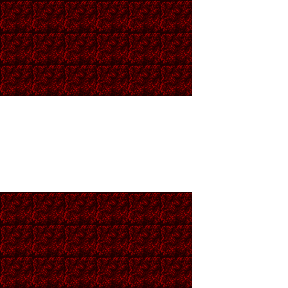
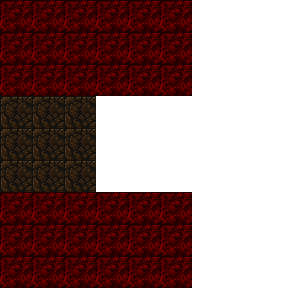
Add conveyer belts and light bulbs

Changed region(s): [[0.0, 0.3125, 0.3438, 0.6875]]

diff --git a/core/src/com/mygdx/game/GameObjects/Hazards/ConveyerBelt/ConveyerBelt.kt b/core/src/com/mygdx/game/GameObjects/Hazards/ConveyerBelt/ConveyerBelt.kt
@@ -1,0 +1,92 @@
+package com.mygdx.game.GameObjects.Hazards.ConveyerBelt
+
+import com.badlogic.gdx.graphics.g2d.PolygonSpriteBatch
+import com.badlogic.gdx.graphics.g2d.SpriteBatch
+import com.badlogic.gdx.math.Vector2
+import com.mygdx.game.*
+import com.mygdx.game.Collisions.DefaultAreaEntranceCollition
+import com.mygdx.game.Enums.Direction
+import com.mygdx.game.Enums.Layer
+import com.mygdx.game.Enums.getDirectionFromString
+import com.mygdx.game.GameObjects.GameObject.GameObject
+import com.mygdx.game.GameObjects.MoveableEntities.Characters.Player
+import com.mygdx.game.Utils.Triggerable
+import kotlinx.serialization.Serializable
+import kotlinx.serialization.json.Json
+import kotlinx.serialization.json.decodeFromJsonElement
+
+class ConveyerBelt(gameObjectData: GameObjectData)
+    : GameObject(gameObjectData, Vector2(gameObjectData.width.toFloat(),gameObjectData.height.toFloat())),Triggerable {
+    override val texture = DefaultTextureHandler.getTexture("sensor.png")
+    override val layer = Layer.ONGROUND
+    val directionString = Json.decodeFromJsonElement<ConveyerBeltCustomFields>(gameObjectData.customFields).Direction
+    var direction = getDirectionFromString(directionString)
+    private val isVertical = (direction == Direction.DOWN || direction == Direction.UP)
+    private val brickLength = 20f
+    private val brickCount = if(isVertical) size.y / brickLength else size.x / brickLength
+    val offsetStartBrick = when(direction){
+        Direction.DOWN -> Vector2(0f,0f)
+        Direction.UP -> Vector2(0f,brickLength)
+        Direction.RIGHT -> Vector2(0f,0f)
+        Direction.LEFT -> Vector2(brickLength,0f)
+    }
+    val speed =  1f
+    val start = initPosition + if(isVertical) Vector2(0f,size.y) else Vector2(0f,0f)
+    val end = if(isVertical) initPosition + offsetStartBrick else bottomright - Vector2(brickLength,0f)
+    val brickImageFileName = if(isVertical) "ConveyerBrick.png" else "ConveyerBrickDown.png"
+    val startBrick = ConveyerBrick(if(isVertical) start + offsetStartBrick else start - offsetStartBrick, if(isVertical) Vector2(size.x,brickLength) else Vector2(brickLength,size.y),speed,direction, DefaultTextureHandler.getTexture(brickImageFileName))
+    val endBrick = ConveyerBrick(end, if(isVertical) Vector2(size.x,brickLength) else Vector2(brickLength,size.y),speed,direction, DefaultTextureHandler.getTexture(brickImageFileName))
+    val bricks = constructBricks()
+    override val collision = ConveyerBeltCollition(direction)
+    override fun render(batch: SpriteBatch) {
+        endBrick.draw(batch)
+        startBrick.draw(batch)
+        bricks.forEach { it.draw(batch) }
+    }
+
+    override fun frameTask() {
+        bricks.forEach { it.move() }
+        super.frameTask()
+    }
+
+    fun constructBricks(): List<ConveyerBrick>{
+        val list = mutableListOf<ConveyerBrick>()
+        for(i in 0 until brickCount.toInt()){
+            val increment = if(isVertical) Vector2(0f, i * brickLength) else Vector2(-(i * brickLength), 0f)
+            val brick = ConveyerBrick(start - increment, if(isVertical) Vector2(size.x,brickLength) else Vector2(brickLength,size.y),speed,direction, DefaultTextureHandler.getTexture(brickImageFileName))
+            list.add(brick)
+        }
+        return list.toList()
+    }
+
+    override fun onTrigger() {
+        if(direction == Direction.LEFT){
+            direction = Direction.RIGHT
+        }
+        else if(direction == Direction.RIGHT){
+            direction = Direction.LEFT
+        }
+        startBrick.direction = direction
+        endBrick.direction = direction
+        bricks.forEach { it.direction = direction }
+    }
+}
+
+class ConveyerBeltCollition(val direction: Direction) : DefaultAreaEntranceCollition() {
+
+
+    override var canMoveAfterCollision = true
+
+    override fun movedInsideAction(objectEntered: GameObject) {
+
+    }
+
+    override fun movedOutsideAction(objectLeaved: GameObject) {
+
+    }
+}
+
+@Serializable
+data class ConveyerBeltCustomFields(val Direction: String){
+
+}

diff --git a/core/src/com/mygdx/game/GameObjects/Hazards/LightBulb.kt b/core/src/com/mygdx/game/GameObjects/Hazards/LightBulb.kt
@@ -1,0 +1,50 @@
+package com.mygdx.game.GameObjects.Hazards
+
+import com.badlogic.gdx.math.Vector2
+import com.mygdx.game.Collisions.CanMoveCollision
+import com.mygdx.game.Collition.MoveCollision
+import com.mygdx.game.Collition.OnlyPlayerCollitionMask
+import com.mygdx.game.Collition.OnlyProjectileCollisionMask
+import com.mygdx.game.DefaultTextureHandler
+import com.mygdx.game.EntityRefData
+import com.mygdx.game.Enums.Layer
+import com.mygdx.game.GameObjectData
+import com.mygdx.game.GameObjects.GameObject.GameObject
+import com.mygdx.game.GameObjects.MoveableObjects.Projectile.Fireball
+import com.mygdx.game.GameObjects.Triggers.AbilityCustomFields
+import com.mygdx.game.Managers.AreaManager
+import com.mygdx.game.Utils.Triggerable
+import kotlinx.serialization.Serializable
+import kotlinx.serialization.json.Json
+import kotlinx.serialization.json.decodeFromJsonElement
+
+class LightBulb(gameObjectData: GameObjectData)
+    : GameObject(gameObjectData, Vector2(gameObjectData.width.toFloat(),gameObjectData.height.toFloat())){
+    override val texture = DefaultTextureHandler.getTexture("lightbulb.png")
+    override val layer = Layer.PERSON
+    override val collitionMask = OnlyProjectileCollisionMask
+    override val collision = LightBulbCollision(this)
+    val entityRefData = Json.decodeFromJsonElement<LightbulbCustomFields>(gameObjectData.customFields).Entity_ref
+    lateinit var gameObjectToTrigger: Triggerable
+
+    override fun initObject() {
+        gameObjectToTrigger = AreaManager.getObjectWithIid(entityRefData.entityIid) as Triggerable
+    }
+}
+
+@Serializable
+data class LightbulbCustomFields(val Entity_ref: EntityRefData){
+
+}
+
+class LightBulbCollision(val lightBulb: LightBulb): MoveCollision(){
+    override var canMoveAfterCollision = true
+
+    override fun collisionHappened(collidedObject: GameObject) {
+        if(collidedObject is Fireball){
+            collidedObject.remove()
+            lightBulb.gameObjectToTrigger.onTrigger()
+        }
+    }
+
+}

diff --git a/core/src/com/mygdx/game/GameObjects/Hazards/ConveyerBelt/ConveyerBrick.kt b/core/src/com/mygdx/game/GameObjects/Hazards/ConveyerBelt/ConveyerBrick.kt
@@ -1,0 +1,46 @@
+package com.mygdx.game.GameObjects.Hazards.ConveyerBelt
+
+import com.badlogic.gdx.graphics.Texture
+import com.badlogic.gdx.graphics.g2d.Sprite
+import com.badlogic.gdx.math.Vector2
+import com.mygdx.game.Enums.Direction
+import com.mygdx.game.Enums.getDirectionUnitVector
+import com.mygdx.game.times
+
+class ConveyerBrick(val pos: Vector2, val size: Vector2, val speed: Float, var direction: Direction, texture: Texture): Sprite(texture) {
+    init {
+        val startPos = when(direction){
+            Direction.DOWN -> Vector2(pos.x,pos.y)
+            Direction.UP -> Vector2(pos.x, pos.y - size.y)
+            Direction.RIGHT -> Vector2(pos.x, pos.y)
+            Direction.LEFT -> Vector2(pos.x + size.x, pos.y)
+        }
+        this.setPosition(startPos.x,startPos.y)
+        this.setSize(size.x,size.y)
+    }
+
+    fun move(){
+        val directionUnitVector = getDirectionUnitVector(direction)
+        val nextIncrement = directionUnitVector * speed
+        this.setPosition(this.x + nextIncrement.x, this.y + nextIncrement.y)
+        if(direction == Direction.DOWN){
+            if(this.y <= pos.y - size.y){
+                this.setPosition(pos.x,pos.y)
+            }
+        }else if(direction == Direction.UP){
+            if(this.y >= pos.y){
+                this.setPosition(pos.x,pos.y - size.y)
+            }
+        }else if(direction == Direction.RIGHT){
+            if(this.x >= pos.x + size.x){
+                this.setPosition(pos.x,pos.y)
+            }
+        }
+        else if(direction == Direction.LEFT){
+            if(this.x <= pos.x){
+                this.setPosition(pos.x + size.x,pos.y)
+            }
+        }
+
+    }
+}

diff --git a/core/src/com/mygdx/game/Models.kt b/core/src/com/mygdx/game/Models.kt
@@ -3,6 +3,7 @@ import com.mygdx.game.Ability.AbilityItem
 import com.mygdx.game.GameObjects.Door
 import com.mygdx.game.GameObjects.Entrance
 import com.mygdx.game.GameObjects.Hazards.*
+import com.mygdx.game.GameObjects.Hazards.ConveyerBelt.ConveyerBelt
 import com.mygdx.game.GameObjects.MoveableObjects.AnimeliaEnemies.convertToEnemyAnimelia
 import com.mygdx.game.GameObjects.MoveableObjects.Animelias.convertToFriendlyAnimelia
 import com.mygdx.game.GameObjects.Structures.TrainingStation
@@ -27,6 +28,8 @@ data class Entities(
     val AnimeliaEnemy: List<GameObjectData> = listOf(),
     val TrainingStation: List<GameObjectData> = listOf(),
     val Ability: List<GameObjectData> = listOf(),
+    val ConveyerBelt: List<GameObjectData> = listOf(),
+    val FireLightBulb: List<GameObjectData> = listOf(),
 )
 fun initMappings(){
     GameObjectFactory.register("Door", ::Door)
@@ -37,6 +40,8 @@ fun initMappings(){
     GameObjectFactory.register("AnimeliaEnemy", ::convertToEnemyAnimelia)
     GameObjectFactory.register("TrainingStation", ::TrainingStation)
     GameObjectFactory.register("Ability", ::AbilityItem)
+    GameObjectFactory.register("ConveyerBelt", ::ConveyerBelt)
+    GameObjectFactory.register("FireLightBulb", ::LightBulb)
 }
 @Serializable
 open class GameObjectData( var x: Int = 0,

diff --git a/core/src/com/mygdx/game/Collition/CollisionMask.kt b/core/src/com/mygdx/game/Collition/CollisionMask.kt
@@ -2,6 +2,7 @@ package com.mygdx.game.Collition
 
 import com.mygdx.game.GameObjects.GameObject.GameObject
 import com.mygdx.game.GameObjects.MoveableEntities.Characters.Player
+import com.mygdx.game.GameObjects.MoveableObjects.Projectile.Projectile
 
 interface CollisionMask {
     val canCollideWith: (GameObject) -> Boolean
@@ -13,6 +14,10 @@ class DefaultCollisionMask(override val canCollideWith: (GameObject) -> Boolean 
 
 object OnlyPlayerCollitionMask: CollisionMask{
     override val canCollideWith: (GameObject) -> Boolean = { other: GameObject -> other is Player }
+}
+
+object OnlyProjectileCollisionMask: CollisionMask{
+    override val canCollideWith: (GameObject) -> Boolean = { other: GameObject -> other is Projectile}
 }
 
 class AllOtherObjectsCollisionMask(val objectToExclude: GameObject): CollisionMask{

diff --git a/core/src/com/mygdx/game/Managers/AbilityManager.kt b/core/src/com/mygdx/game/Managers/AbilityManager.kt
@@ -11,12 +11,12 @@ class AbilityManager {
                 ability.currentFrame += 1
                 if(ability.currentFrame == 1){
                     ability.onActivate()
-                    ability.attachedFightableObject.usingAbility = true
+                    ability.attachedFightableObject.cannotInitiateMove = true
                 }else if(ability.currentFrame >= ability.activeFrames){
                     ability.onDeactivate()
                     ability.currentFrame = 0
                     abilities.remove(ability)
-                    ability.attachedFightableObject.usingAbility = false
+                    ability.attachedFightableObject.cannotInitiateMove = false
                 } else {
                     ability.frameAction()
                 }

diff --git a/core/src/com/mygdx/game/GameObjects/GameObject/FightableObject.kt b/core/src/com/mygdx/game/GameObjects/GameObject/FightableObject.kt
@@ -6,7 +6,7 @@ import com.mygdx.game.Managers.Stats
 import com.mygdx.game.UI.HealthStrategy
 
 abstract class FightableObject(gameObjectData: GameObjectData, size: Vector2) : MoveableObject(gameObjectData, size) {
-    var usingAbility = false
+    var cannotInitiateMove = false
     var isMoving = false
     abstract val maxHealth: Float
     var currentHealth = 0f
@@ -14,7 +14,7 @@ abstract class FightableObject(gameObjectData: GameObjectData, size: Vector2) : 
     abstract val healthStrategy: HealthStrategy
 
     override fun move(newUnitVector: Vector2, speed: Float): Boolean {
-        if (!usingAbility) {
+        if (!cannotInitiateMove) {
             isMoving = super.move(newUnitVector, speed)
             return isMoving
         }

diff --git a/core/src/com/mygdx/game/Utils/Triggerable.kt b/core/src/com/mygdx/game/Utils/Triggerable.kt
@@ -1,0 +1,5 @@
+package com.mygdx.game.Utils
+
+interface Triggerable {
+    fun onTrigger()
+}
